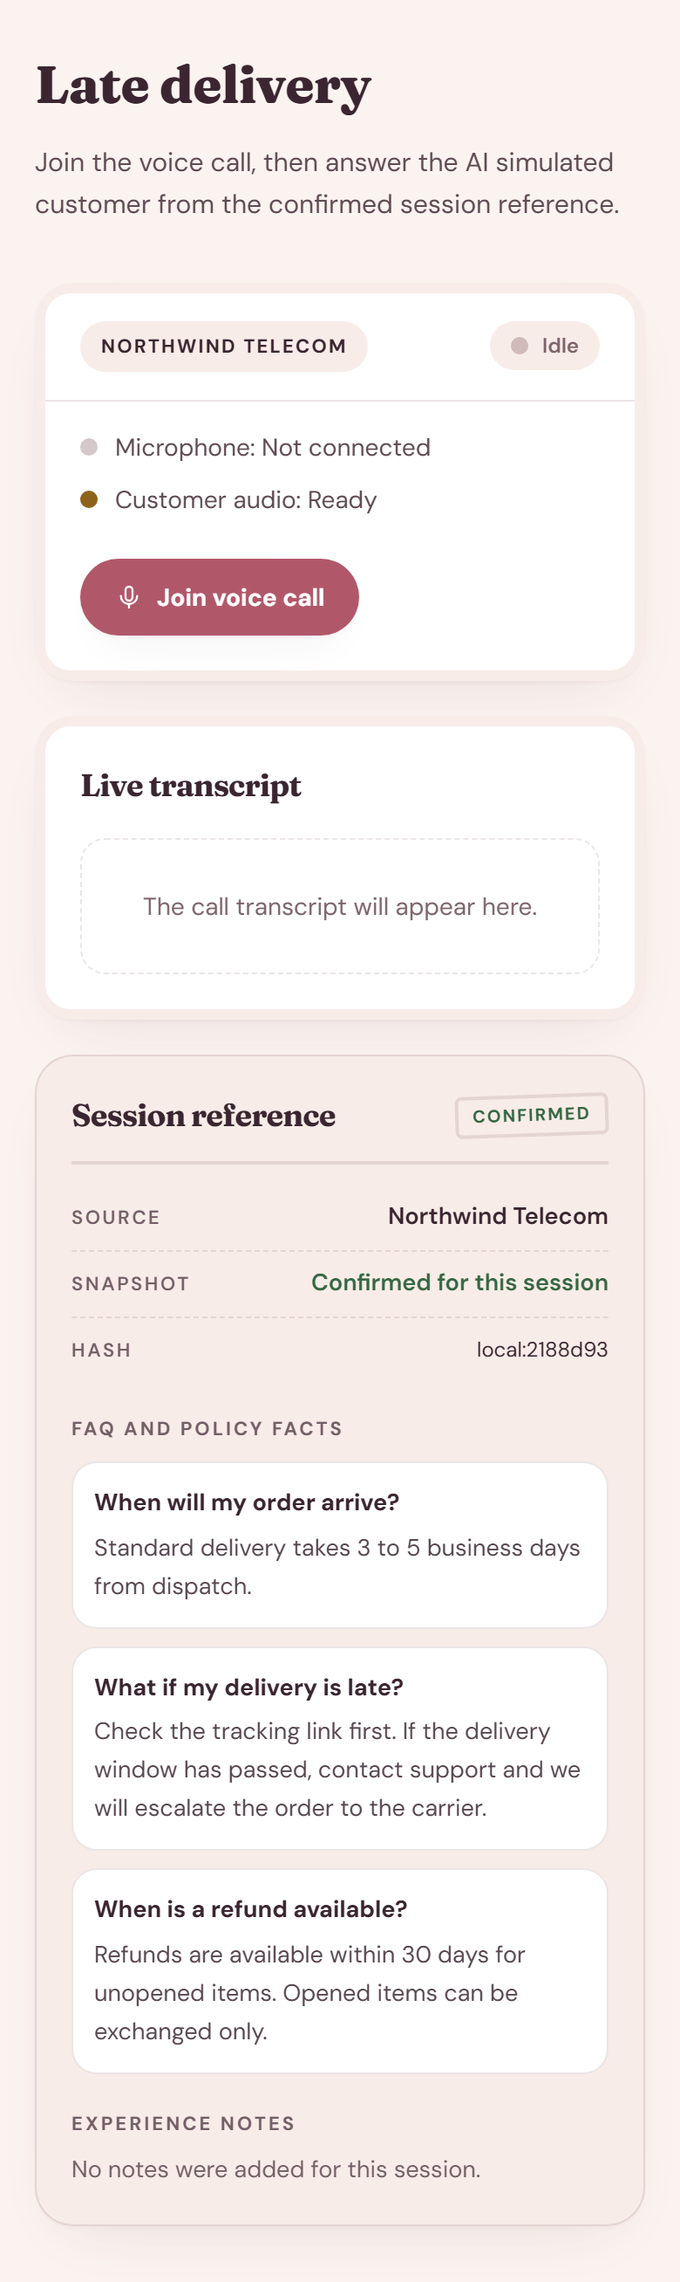
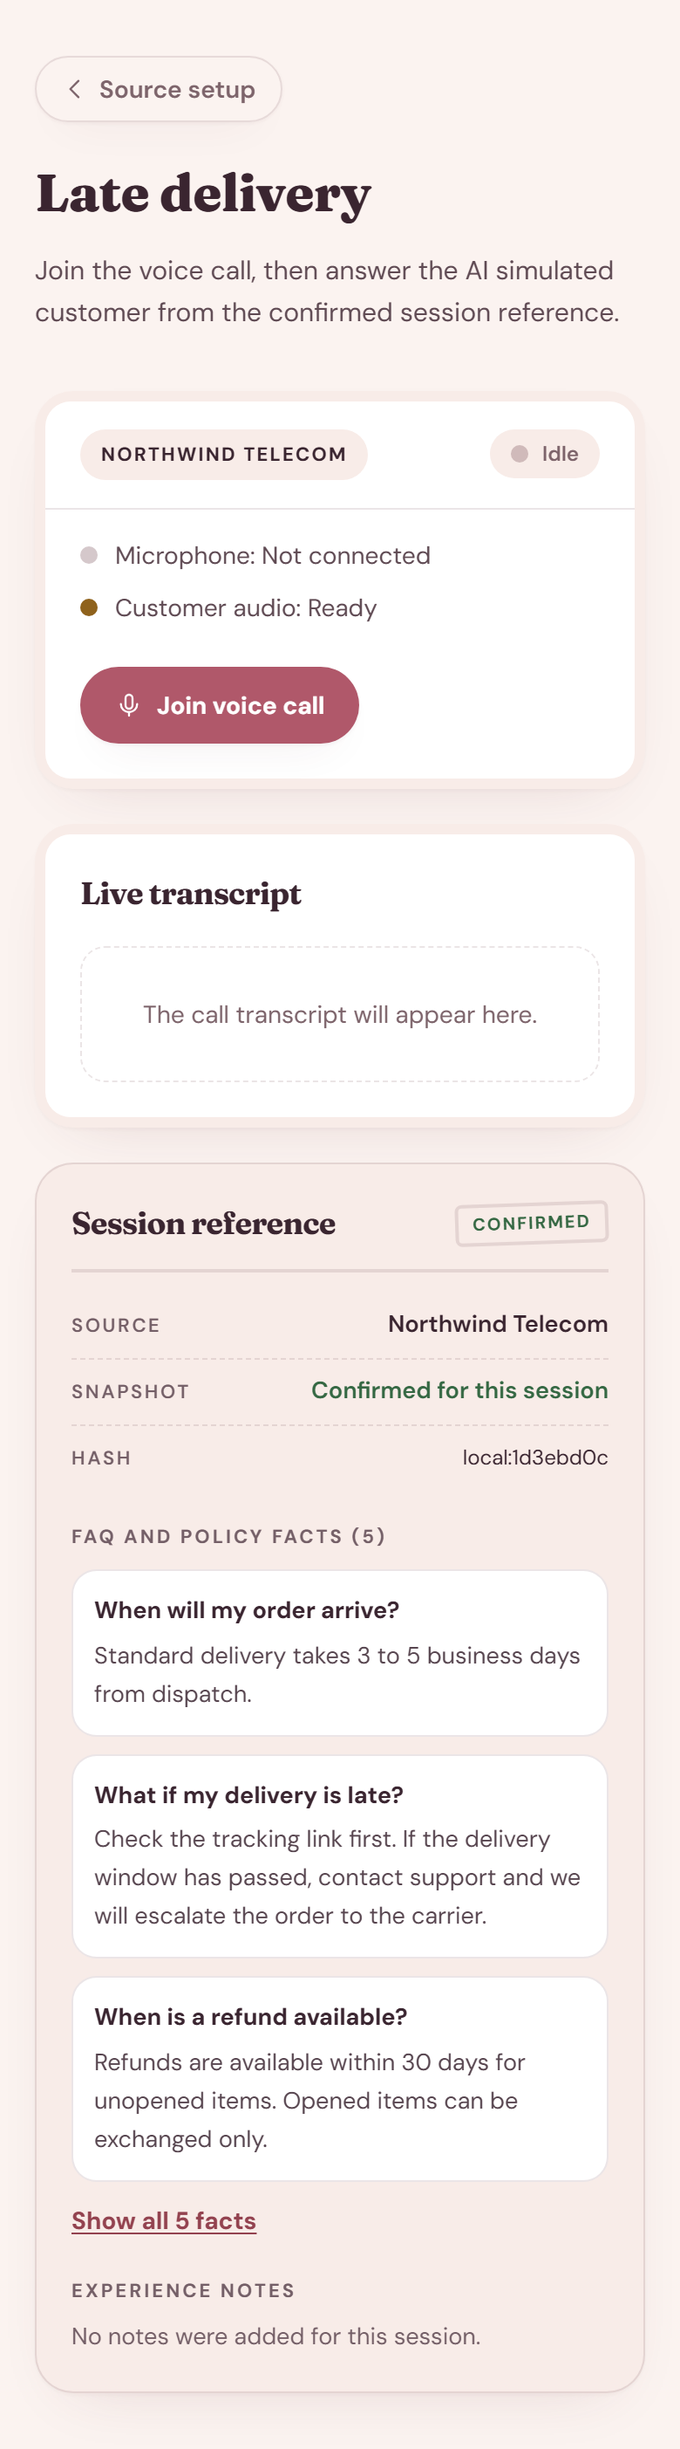
feat: back navigation, structured FAQ extraction, readable next exercise
Product-lead feedback round:
- Back navigation: Home on setup/report, Source setup on the call screen
- FAQ import now preserves paragraph structure: block-level tags become
  line breaks before text extraction, so imports produce per-section
  reference facts instead of one page-length blob (root cause of factual
  accuracy scoring 0 on imported pages)
- Next exercise quotes at most 180 characters of the missed-fact answer
- Session-sheet facts list collapses to three entries with Show-all toggle

Verification: lint clean, typecheck clean, 187/187 tests, build succeeded,
captured desktop and mobile evidence including facts collapse toggle.

diff --git a/src/components/reference-panel.tsx b/src/components/reference-panel.tsx
@@ -1,8 +1,13 @@
-import React from "react";
+"use client";
+
+import React, { useState } from "react";
 import type { PracticeContext } from "../domain/validation";
 
+const PREVIEW_FACTS = 3;
+
 export function ReferencePanel({ context }: { context: PracticeContext }) {
-  const canonicalLink = context.source.kind === "public-https-link" ? context.source.url : undefined;
+  const [factsExpanded, setFactsExpanded] = useState(false);
+  const visibleFacts = factsExpanded ? context.facts : context.facts.slice(0, PREVIEW_FACTS);
   return (
     <aside aria-labelledby="reference-heading" className="self-start rounded-2xl border border-line bg-tape p-5 shadow-card lg:sticky lg:top-8">
       <div className="flex items-center justify-between gap-3 border-b-2 border-tape-ink pb-3">
@@ -24,23 +29,35 @@ export function ReferencePanel({ context }: { context: PracticeContext }) {
           <dt className="text-[11px] font-semibold uppercase tracking-[0.12em] text-tape-muted">Hash</dt>
           <dd className="mt-0.5 text-right text-xs break-all tabular-nums text-tape-ink">{context.sourceContentHash}</dd>
         </div>
-        {canonicalLink && (
+        {canonicalLinkOf(context) && (
           <div className="border-b border-dashed border-tape-line py-2">
             <dt className="text-[11px] font-semibold uppercase tracking-[0.12em] text-tape-muted">Canonical link</dt>
-            <dd className="mt-1 break-all"><a className="font-semibold text-accent-strong underline underline-offset-2 transition-opacity duration-200 hover:opacity-75" href={canonicalLink} target="_blank" rel="noreferrer">{canonicalLink}</a></dd>
+            <dd className="mt-1 break-all"><a className="font-semibold text-accent-strong underline underline-offset-2 transition-opacity duration-200 hover:opacity-75" href={canonicalLinkOf(context)} target="_blank" rel="noreferrer">{canonicalLinkOf(context)}</a></dd>
           </div>
         )}
       </dl>
       <section className="mt-5" aria-labelledby="facts-heading">
-        <h3 id="facts-heading" className="text-[11px] font-bold uppercase tracking-[0.14em] text-tape-muted">FAQ and policy facts</h3>
+        <h3 id="facts-heading" className="text-[11px] font-bold uppercase tracking-[0.14em] text-tape-muted">
+          FAQ and policy facts ({context.facts.length})
+        </h3>
         <ul className="mt-2.5 space-y-2.5 text-[13.5px] leading-relaxed">
-          {context.facts.map((fact) => (
+          {(factsExpanded ? context.facts : visibleFacts).map((fact) => (
             <li key={fact.id} className="rounded-xl border border-line bg-panel p-3">
               <p className="font-bold text-tape-ink">{fact.question}</p>
               <p className="mt-1 text-tape-ink/85">{fact.answer}</p>
             </li>
           ))}
         </ul>
+        {context.facts.length > PREVIEW_FACTS && (
+          <button
+            type="button"
+            onClick={() => setFactsExpanded(!factsExpanded)}
+            aria-expanded={factsExpanded}
+            className="mt-3 text-sm font-bold text-accent-strong underline underline-offset-2 transition-opacity duration-200 hover:opacity-75"
+          >
+            {factsExpanded ? "Show fewer facts" : `Show all ${context.facts.length} facts`}
+          </button>
+        )}
       </section>
       <section className="mt-5" aria-labelledby="notes-heading">
         <h3 id="notes-heading" className="text-[11px] font-bold uppercase tracking-[0.14em] text-tape-muted">Experience notes</h3>
@@ -54,4 +71,8 @@ export function ReferencePanel({ context }: { context: PracticeContext }) {
       </section>
     </aside>
   );
+}
+
+function canonicalLinkOf(context: PracticeContext) {
+  return context.source.kind === "public-https-link" ? context.source.url : undefined;
 }

diff --git a/src/components/coaching-report.tsx b/src/components/coaching-report.tsx
@@ -1,10 +1,12 @@
 "use client";
 
-import React from "react";
+import React, { useState } from "react";
 import Link from "next/link";
 import type { CoachingReport as Report } from "../domain/report";
 import { TranscriptPane } from "./transcript-pane";
-import { btnDanger, btnPrimary, ChevronDownIcon } from "./ui";
+import { BackLink, btnDanger, btnPrimary, ChevronDownIcon } from "./ui";
+
+const EXERCISE_LIMIT = 320;
 
 const dimensions = [
   { key: "factualAccuracy", label: "Factual accuracy", explanation: "How many confirmed reference answers you stated with their conditions. Conflicting claims reduce this score." },
@@ -31,8 +33,13 @@ function FeedbackList({ title, items, empty }: { title: string; items: string[];
 }
 
 export function CoachingReport({ report, onClear }: { report: Report; onClear: () => void }) {
+  const [exerciseExpanded, setExerciseExpanded] = useState(false);
+  const exerciseLong = report.nextExercise.length > EXERCISE_LIMIT;
   return (
-    <main className="mx-auto w-full max-w-6xl px-5 py-10 sm:py-14">
+    <main className="mx-auto w-full max-w-6xl px-5 py-8 sm:py-12">
+      <div className="mb-8">
+        <BackLink href="/" label="Home" />
+      </div>
       <div className="space-y-5 sm:space-y-6">
         <header className="settle-in">
           <h1 className="font-display text-4xl font-extrabold leading-[1.08] tracking-tight text-balance text-ink sm:text-[2.75rem]">
@@ -67,7 +74,18 @@ export function CoachingReport({ report, onClear }: { report: Report; onClear: (
         </div>
         <section className="rounded-2xl border border-warn/30 bg-warn-bg p-5">
           <h2 className="font-display text-lg font-bold tracking-tight text-warn-ink">Next exercise</h2>
-          <p className="mt-3 break-words leading-relaxed text-ink-soft">{report.nextExercise}</p>
+          <p className="mt-3 break-words leading-relaxed text-ink-soft">
+            {exerciseLong && !exerciseExpanded ? `${report.nextExercise.slice(0, EXERCISE_LIMIT).trimEnd()}...` : report.nextExercise}
+          </p>
+          {exerciseLong && (
+            <button
+              type="button"
+              onClick={() => setExerciseExpanded(!exerciseExpanded)}
+              className="mt-3 text-sm font-bold text-warn-ink underline underline-offset-2 transition-opacity duration-200 hover:opacity-80"
+            >
+              {exerciseExpanded ? "Show less" : "Show full exercise"}
+            </button>
+          )}
         </section>
         <details className="group rounded-2xl border border-line bg-panel p-5 shadow-card">
           <summary className="flex cursor-pointer list-none items-center justify-between gap-3 font-bold text-ink [&::-webkit-details-marker]:hidden">

diff --git a/src/evaluation/deterministic-evaluator.ts b/src/evaluation/deterministic-evaluator.ts
@@ -41,6 +41,8 @@ export class DeterministicEvaluator implements Evaluator {
     const factualAccuracy = referenceFacts.length ? score(3 * (referenceFacts.length - missedFacts.length) / referenceFacts.length - unsupportedClaims.length) : 0;
     const fullFactualCoverage = referenceFacts.length > 0 && missedFacts.length === 0 && unsupportedClaims.length === 0;
     const personalNote = notes.find((note) => note.kind === "personal-coaching-note" && note.text.trim());
+    // The exercise quotes one fact answer; long answers are truncated to keep the suggestion readable.
+    const focusFact = missedFacts.length && missedFacts[0].length > 180 ? `${missedFacts[0].slice(0, 177).trimEnd()}...` : missedFacts.length ? missedFacts[0] : "";
     return {
       callId: crypto.randomUUID(), scenarioId: scenario.id, completedAt: new Date().toISOString(),
       scores: { factualAccuracy, empathy: score(Number(acknowledgement) * 2 + Number(apology)), clarity: score(Number(concise) + Number(direct) * 2), resolution: score(Number(nextStep) * 2 + Number(escalation)) },
@@ -49,7 +51,7 @@ export class DeterministicEvaluator implements Evaluator {
         acknowledgement || apology ? "You acknowledged the customer's experience." : nextStep ? "You offered a concrete next step." : concise ? "You kept your sentences concise." : "No communication strength was demonstrated in this attempt.",
       ],
       missedFacts, unsupportedClaims,
-      nextExercise: `Repeat ${scenario.title.toLowerCase()}: ${missedFacts.length ? `state this confirmed answer, then offer a next step: ${missedFacts[0]}` : "acknowledge the concern, give the confirmed answer, and explain the next step."}${personalNote ? ` Coaching reminder: ${personalNote.text.trim()}` : ""}`,
+      nextExercise: `Repeat ${scenario.title.toLowerCase()}: ${missedFacts.length ? `state this confirmed answer, then offer a next step: ${focusFact}` : "acknowledge the concern, give the confirmed answer, and explain the next step."}${personalNote ? ` Coaching reminder: ${personalNote.text.trim()}` : ""}`,
       transcript: transcript.map((turn) => ({ ...turn })), sourceProvenance: Object.freeze({ ...this.provenance }),
     };
   }

diff --git a/src/components/call-console.tsx b/src/components/call-console.tsx
@@ -10,7 +10,7 @@ import { AssemblyAiVoiceAgent, createConfiguredVoiceAgent } from "../voice/assem
 import { reduceCallState, type CallState, type VoiceAgent, type VoiceAgentEvent } from "../voice/voice-agent";
 import { ReferencePanel } from "./reference-panel";
 import { TranscriptPane } from "./transcript-pane";
-import { btnDanger, btnPrimary, btnSecondary, displayTitle, EndCallIcon, MicIcon, MicOffIcon, StatusLamp, type LampTone } from "./ui";
+import { BackLink, btnDanger, btnPrimary, btnSecondary, displayTitle, EndCallIcon, MicIcon, MicOffIcon, StatusLamp, type LampTone } from "./ui";
 
 type CallConsoleProps = { context: PracticeContext; createAgent?: () => VoiceAgent; onCallEnded?: (transcript: TranscriptTurn[]) => void };
 type MicrophoneStatus = "not-started" | "recording" | "muted";
@@ -113,6 +113,9 @@ export function CallConsole({ context, createAgent = createConfiguredAgent, onCa
   return (
     <div className="settle-in">
       <header>
+        <div className="mb-6">
+          <BackLink href="/setup" label="Source setup" />
+        </div>
         <h1 className={`${displayTitle} text-3xl leading-[1.1] sm:text-4xl`}>{context.scenario.title}</h1>
         <p className="mt-4 max-w-2xl leading-relaxed text-ink-soft">Join the voice call, then answer the AI simulated customer from the confirmed session reference.</p>
       </header>

diff --git a/src/app/api/reference-import/route.ts b/src/app/api/reference-import/route.ts
@@ -68,9 +68,14 @@ const publicHttpsUrl = (value: unknown): URL | undefined => {
   }
 };
 
+// Block-level closers become newlines so paragraph structure survives text
+// extraction; the fact extractor and the fallback detail splitter depend on it.
 const textFromHtml = (html: string): string => html
   .replace(/<!--[\s\S]*?-->/g, " ")
-  .replace(/<(script|style|nav|header|footer|aside|form|noscript|iframe|svg)[^>]*>[\s\S]*?<\/\1>/gi, " ")
+  .replace(/<(script|style|noscript|iframe|svg|template)[^>]*>[\s\S]*?<\/\1>/gi, " ")
+  .replace(/<(nav|header|footer|aside|form)[^>]*>[\s\S]*?<\/\1>/gi, "\n")
+  .replace(/<\/(p|div|li|h[1-6]|tr|section|article|blockquote|dd|dt|table|ul|ol|main|figure|figcaption)>/gi, "\n")
+  .replace(/<br[^>]*>/gi, "\n")
   .replace(/<[^>]+>/g, " ")
   .replace(/&nbsp;/gi, " ")
   .replace(/&amp;/gi, "&")
@@ -78,7 +83,9 @@ const textFromHtml = (html: string): string => html
   .replace(/&gt;/gi, ">")
   .replace(/&quot;/gi, '"')
   .replace(/&#39;/gi, "'")
-  .replace(/\s+/g, " ")
+  .replace(/[^\S\n]+/g, " ")
+  .replace(/ *\n+ */g, "\n")
+  .replace(/\n{3,}/g, "\n\n")
   .trim();
 
 const readBoundedBody = async (response: IncomingMessage): Promise<string> => {

diff --git a/src/app/setup/page.tsx b/src/app/setup/page.tsx
@@ -1,9 +1,12 @@
 import { SourceSetupForm } from "../../components/source-setup-form";
-import { displayTitle } from "../../components/ui";
+import { BackLink, displayTitle } from "../../components/ui";
 
 export default function SetupPage() {
   return (
-    <main className="mx-auto w-full max-w-3xl px-5 py-10 sm:py-14">
+    <main className="mx-auto w-full max-w-3xl px-5 py-8 sm:py-12">
+      <div className="mb-8">
+        <BackLink href="/" label="Home" />
+      </div>
       <header className="settle-in">
         <h1 className={`${displayTitle} text-4xl leading-[1.08] sm:text-[2.75rem]`}>Set up a grounded practice call</h1>
         <p className="mt-5 max-w-xl leading-relaxed text-ink-soft">
@@ -11,7 +14,7 @@ export default function SetupPage() {
           You are the voice responder; the customer is simulated from this source.
         </p>
       </header>
-      <div className="settle-in mt-9 rounded-2xl bg-shell p-1.5 shadow-card">
+      <div className="settle-in mt-8 rounded-2xl bg-shell p-1.5 shadow-card">
         <div className="rounded-xl bg-panel px-5 py-6 sm:px-8 sm:py-8">
           <SourceSetupForm />
         </div>

diff --git a/src/components/ui.tsx b/src/components/ui.tsx
@@ -1,4 +1,5 @@
 import React from "react";
+import Link from "next/link";
 
 /* Shared visual primitives for the Maison Rose UI (ported from the cosmet project). Styling only — no behavior. */
 
@@ -123,5 +124,25 @@ export function ChevronDownIcon(props: IconProps) {
     <Svg {...props}>
       <path d="M5 9l7 7 7-7" />
     </Svg>
+  );
+}
+
+export function ChevronLeftIcon(props: IconProps) {
+  return (
+    <Svg {...props}>
+      <path d="M15 5l-7 7 7 7" />
+    </Svg>
+  );
+}
+
+export function BackLink({ href, label }: { href: string; label: string }) {
+  return (
+    <Link
+      href={href}
+      className="inline-flex items-center gap-1.5 rounded-full border border-line bg-surface px-3.5 py-2 text-sm font-semibold text-ink-muted shadow-soft transition-all duration-200 ease-[cubic-bezier(0.23,1,0.32,1)] hover:border-accent-bright hover:text-ink active:scale-[0.97]"
+    >
+      <ChevronLeftIcon className="size-4" />
+      {label}
+    </Link>
   );
 }

diff --git a/src/app/api/reference-import/route.test.ts b/src/app/api/reference-import/route.test.ts
@@ -73,7 +73,7 @@ describe("public HTTPS import boundary", () => {
     expect(checkServerIdentity).toHaveBeenCalledWith("example.com", {});
     expect(lookup).toHaveBeenCalledTimes(1);
     expect(fetch).not.toHaveBeenCalled();
-    expect(await response.json()).toMatchObject({ canonicalUrl: "https://example.com/policy", extractedText: "Refunds Within 30 days.", contentHash: expect.stringMatching(/^sha256:[a-f0-9]{64}$/) });
+    expect(await response.json()).toMatchObject({ canonicalUrl: "https://example.com/policy", extractedText: "Refunds\nWithin 30 days.", contentHash: expect.stringMatching(/^sha256:[a-f0-9]{64}$/) });
   });
 
   it("accepts public IPv6 without a DNS lookup", async () => {

diff --git a/HANDOFF.md b/HANDOFF.md
@@ -13,11 +13,26 @@ The outgoing coding model completes this file before moving to another tool. Run
 ## Current Git snapshot
 
 - Branch: `supportcoach-mvp`
-- Current commit: `8deb805`
-- Generated: 2026-09-17T23:10:59.302Z
-- Uncommitted files excluding this handoff: none
+- Current commit: `9bc80b5`
+- Generated: 2026-09-17T23:42:45.309Z
+- Uncommitted files excluding this handoff: 
 
-
+```text
+M .impeccable/review/desktop-call.png
+ M .impeccable/review/desktop-report.png
+ M .impeccable/review/mobile-call.png
+ M .impeccable/review/mobile-report.png
+ M BUGS.md
+ M CHANGELOG.md
+ M src/app/api/reference-import/route.test.ts
+ M src/app/api/reference-import/route.ts
+ M src/app/setup/page.tsx
+ M src/components/call-console.tsx
+ M src/components/coaching-report.tsx
+ M src/components/reference-panel.tsx
+ M src/components/ui.tsx
+ M src/evaluation/deterministic-evaluator.ts
+```
 <!-- GENERATED SNAPSHOT: END -->
 ## Work completed in this handoff
 
@@ -45,16 +60,18 @@ Follow-up round 3 (2026-09-18, product-lead request): the import body cap was ra
 - Impeccable finish review (fresh subagent): first verdict `fix`; after placeholder/danger contrast token fixes, live-state captures (mock voice mode, fake mic), DESIGN.md, and provenance, the verdict pass resolved every item; the final documentation amendment (console-composition deviation recorded in the brief and CHANGELOG) flipped it to ship.
 - Visual evidence: `.impeccable/review/*.png` (desktop 1440x900, mobile 390x844 at 2x) with `provenance.json`; capture scripts preserved at `.impeccable/review/scripts/`.
 
+Follow-up round 4 (2026-09-18, product-lead feedback): imported pages now preserve paragraph structure — the HTML cleaner converts block-level tags to line breaks before extraction, so imports produce per-section reference facts instead of one page-length blob (the root cause of factual accuracy scoring 0 on imports). Next exercise quotes at most 180 characters of the missed-fact answer, and the report clamps the display with a Show-full toggle. Back navigation added (Home on setup/report, Source setup on the call screen), and the session-sheet facts list collapses to three entries with a Show-all toggle.
+
 ## Remaining work or known issues
 
 - Live AssemblyAI path was verified in mock voice mode only (joined call, lamps, REC); a smoke test with a real `ASSEMBLYAI_API_KEY` on a physical Android Chrome device is the recommended next check.
+- Imported pages that render their FAQ client-side (JavaScript-only accordions) still cannot be read by the server-side importer; pasting the text remains the recovery. The deterministic matcher also stays conservative on paraphrases.
 - The native file-input label ("Choose File") is unthemed browser copy, accepted in the finish review; revisit if it bothers anyone.
-- The seeded report screenshot shows factual accuracy 0 with matching answers: that is the deterministic evaluator's documented paraphrase limitation, not a UI defect.
-- The Mimosa pre-commit hook reported a partial scan (dependency-source and callgraph limits) on the redesign commit; re-run a full security audit when convenient.
+- The Mimosa pre-commit hook reported a partial scan (dependency-source and callgraph limits) on recent commits; re-run a full security audit when convenient.
 
 ## Instructions for the next agent
 
-- Approved scope was UI redesign only; behavior, routes, API contracts, and environment-variable handling are unchanged and must stay that way.
+- Approved scope was the UI redesign plus the product lead's follow-up fixes (navigation, extraction structure, next-exercise clamp, import cap); beyond that, behavior, routes, API contracts, and environment-variable handling must stay as they are.
 - Preserve the voice-only practice flow (no typed-response practice), the FAQ/notes grounding flow, server-only API secrets, and all test-pinned strings in `src/components/call-console.test.tsx` (including "Microphone: On — speak naturally") and `src/components/coaching-report.test.tsx`.
 - Follow DESIGN.md for any future UI work: the Maison Rose world (blush/white/plum/rose), cream session sheet only for confirmed source material, Fraunces for display, one rose accent, no kickers above headings, no fake data visuals.
 - Run `npm run handoff` before handing back, and commit completed work with its handoff together.

diff --git a/CHANGELOG.md b/CHANGELOG.md
@@ -36,6 +36,8 @@ and this project adheres to [Semantic Versioning](https://semver.org/spec/v2.0.0
 - Practice call screen rebuilt as a double-bezel console island: cream source chip, live signal lamps for call/microphone/customer-audio states (pulsing when live), rose transport buttons, and a timecoded transcript track list with a red REC pulse while the call is live; the session reference renders as the sticky cream sheet.
 - Coaching report rebuilt as coaching records: Fraunces serif score numerals with three-segment rose meters, staggered card entrances, warm next-exercise panel, and a chevron transcript disclosure.
 - Source setup form restyled with a segmented paste/link channel control, selectable scenario cards with rose lamp markers, the cream extracted-source sheet with CONFIRMED stamp styling, and themed inputs, file input, and selects at 16px (no Android focus zoom).
+- Back navigation added to the setup, call, and report screens (Home on setup and report; Source setup on the call screen).
+- Session reference facts list is collapsed by default to three entries with a "Show all facts" toggle and a fact count.
 - Import body cap raised from 200 KB to 2 MB (product lead request): pages up to 2 MB now import cleanly, and oversized pages are rejected with their measured size and the recovery step. The extracted-text cap (200 KB) is unchanged.
 - Motion and states per design engineering review: 200-400ms custom ease-out transitions, 0.97 press feedback, themed browser surfaces (rose selection and caret, themed scrollbars and focus rings), 44px touch targets for Android Chrome, and full `prefers-reduced-motion` support.
 - Palette brightened across the app on product-lead feedback, keeping WCAG AA contrast.
@@ -44,6 +46,8 @@ and this project adheres to [Semantic Versioning](https://semver.org/spec/v2.0.0
 
 ### Fixed
 
+- FAQ import now preserves paragraph structure from imported pages: block-level tags (p, li, headings, table rows, and similar) become line breaks before text extraction, so each page section is extracted as its own reference fact. Previously the whole page collapsed into one page-length "Reference detail" blob, which made factual accuracy score 0 on imported pages because no trainee answer could match it.
+- Next exercise quotes at most 180 characters of the missed-fact answer, keeping the suggestion readable when a fact answer is long.
 - Source-channel segmented control: the selected option is now clearly visible as a white pill with soft shadow and ink text on the cream track (the Maison Rose port had collapsed the checked state into the track background).
 - Oversized-page import error now names the recovery: "This page is 4.6 MB, over the 2 MB import limit. Open the page, copy the FAQ or policy text, and paste it instead." (was "The reference source must be 200 KB or smaller.").
 - Remove the home page's "or typed fallback" clause so the copy matches the voice-only practice rule, and tune the mobile headline scale for 320px viewports (product lead approved on 2026-09-17).

diff --git a/BUGS.md b/BUGS.md
@@ -4,6 +4,8 @@ Last updated: 2026-09-17
 
 | Severity | Issue | Notes |
 | --- | --- | --- |
+| --- | Resolved factual accuracy scoring 0 on imported pages | The HTML cleaner collapsed entire pages into a single line, so imports became one page-length "Reference detail" blob that no trainee answer could match. Block-level tags now preserve paragraph structure (2026-09-18); per-section facts make lexical matching possible. |
+| --- | Resolved unreadable next exercise on long fact answers | The suggestion quoted the full missed-fact answer. It now quotes at most 180 characters (evaluator) and the report clamps display with a Show-full toggle (2026-09-18). |
 | --- | Resolved home page "typed fallback" copy | The home screen advertised a typed-response option that live practice deliberately does not have. The clause was removed on 2026-09-17 with the product lead's approval; the copy now reads "practice your response by voice." |
 | --- | Resolved Android Chrome speaker output | Provider PCM streaming, native 24 kHz Chromium playback, and live transcript deltas were verified on a physical phone by the product lead on 2026-09-17. |
 | --- | Resolved customer audio fragmentation | PCM reply chunks now share one scheduled playback timeline, and microphone capture uses the browser default sample rate before resampling to 24 kHz for the provider. |
